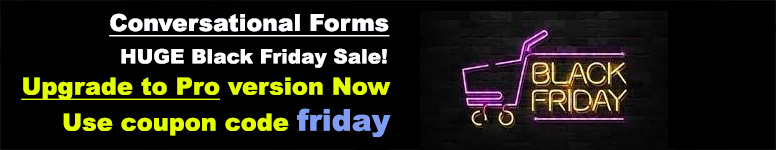
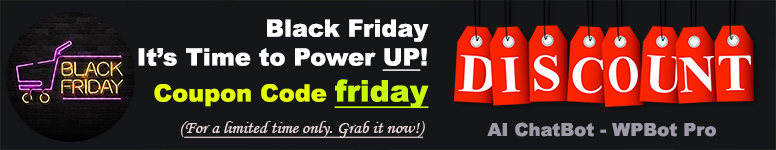
1.3.8

diff --git a/conversational-forms/class-qc-free-plugin-upgrade-notice.php b/conversational-forms/class-qc-free-plugin-upgrade-notice.php
@@ -5,9 +5,9 @@
  * Last Updated On: 05-24-2017
  *******************************************/
 
-if( !class_exists('QcPluginUpgradeToProNotice') )
+if( !class_exists('QcPluginUpgradeToProNoticeconversational') )
 {
-	class QcPluginUpgradeToProNotice {
+	class QcPluginUpgradeToProNoticeconversational {
 		
 		//Public variables, these can be overrides using instance callback
 
@@ -75,13 +75,13 @@ if( !class_exists('QcPluginUpgradeToProNotice') )
 		 * Like Active, Edit etc.
 		 * Ofcourse, in plugin.php page
 		 *******************************/
-		function hook_with_plugin_action_links(){
+		function hook_with_plugin_conversational_action_links(){
 			
 			$this->plugin_slug_plus_file = $this->plugin_slug .'/'. $this->plugin_main_file;
 			
 			if( $this->show_with_action_links && $this->plugin_slug_plus_file != "" )
 			{
-				add_action( 'plugin_action_links_' . $this->plugin_slug_plus_file, array(&$this, 'func_show_upgrade_link_with_action_links'), 95 );
+				add_action( 'plugin_action_links_' . $this->plugin_slug_plus_file, array(&$this, 'func_show_conversational_upgrade_link_with_action_links'), 95 );
 			}
 			else
 			{
@@ -94,7 +94,7 @@ if( !class_exists('QcPluginUpgradeToProNotice') )
 		 * Callback function for the above hook
 		 * used inside hook_with_plugin_action_links
 		 *******************************/
-		function func_show_upgrade_link_with_action_links( $links )
+		function func_show_conversational_upgrade_link_with_action_links( $links )
 		{
 			$links = array_merge( $links, array(
 				'<a title="'.$this->link_text.'" class="'.$this->link_class.'" style="font-weight: bold; color: '.$this->link_color.';" href="' . esc_url( $this->upgrade_link ) . '" target="'.$this->link_target.'">' . __( $this->link_text, 'quantumcloud' ) . '</a>'
@@ -190,7 +190,7 @@ if( !class_exists('QcPluginUpgradeToProNotice') )
  * appropriate worker/callback
  *******************************/
  
-$instance_bot23 = new QcPluginUpgradeToProNotice();
+$instance_bot23 = new QcPluginUpgradeToProNoticeconversational();
 
 if( is_admin() )
 { 
@@ -210,7 +210,7 @@ if( is_admin() )
 
 	if( $instance_bot23->check_if_plugin_page() )
 	{
-		$instance_bot23->hook_with_plugin_action_links();
+		$instance_bot23->hook_with_plugin_conversational_action_links();
 		$instance_bot23->hook_with_plugin_meta_links();
 	}
 	

diff --git a/conversational-forms/qcformbuilder-core.php b/conversational-forms/qcformbuilder-core.php
@@ -1,12 +1,16 @@
 <?php
-/**
- * Plugin Name: Conversational Forms for Lead Generation, Collect information with WPBot
+/*
+ * Plugin Name: ChatBot Conversational Forms for Lead Generation
  * Plugin URI: https://wordpress.org/plugins/conversational-forms
- * Description: An easy to create conversational form builder for the WPBot ChatBot plugin.
- * Author: ChatBot - WPBot
- * Version: 1.3.6
- * Author URI: https://www.wpbot.pro/
+ * Description: ChatBot Conversational Forms for Lead Generation
+ * Author: ChatBot for WordPress - WPBot
+ * @author    QuantumCloud
+ * Version: 1.3.8
  * Donate link: https://www.wpbot.pro/
+ * @author    QuantumCloud
+ * Author URI: https://www.wpbot.pro/
+ * Requires at least: 4.6
+ * Tested up to: 6.7
  * Text Domain: conversational-form-builder
 */
 
@@ -60,7 +64,7 @@ if ( !version_compare(PHP_VERSION, '5.6.0', '>=') ) {
 } else {
 	define('WFBCORE_PATH', plugin_dir_path(__FILE__));
 	define('WFBCORE_URL', plugin_dir_url(__FILE__));
-	define( 'WFBCORE_VER', '1.0.0' );
+	define( 'WFBCORE_VER', '1.3.7' );
 	define('WFBCORE_EXTEND_URL', 'https://api.qcformbuilderforms.com/1.0/');
 	define('WFBCORE_BASENAME', plugin_basename(__FILE__));
 
@@ -227,11 +231,11 @@ if(!function_exists('qcld_condition_check')){
 	}
 }
 
-//add_action( 'admin_notices', 'qcld_condition_promotion_notice');
+add_action( 'admin_notices', 'qcld_condition_promotion_notice');
 function qcld_condition_promotion_notice(){
     $promotion_img =  WFBCORE_URL . "assets/images/blackfriday.jpg";
     ?>
-    <div data-dismiss-type="qcbot-feedback-notice" class="notice is-dismissible qcbot-feedback" style="background: #000">
+    <div data-dismiss-type="qcbot-feedback-notice" class="notice is-dismissible qcbot-feedback" style="background: #151618">
         <div class="">
             
             <div class="qc-review-text" >

diff --git a/conversational-forms/ui/admin.php b/conversational-forms/ui/admin.php
@@ -64,6 +64,18 @@ $modal_new_form = esc_html__('Create Form', 'qcformbuilder-forms').'|{"data-acti
         </ul>
 
 </div>
+<?php
+	$promotion_img =  WFBCORE_URL . "assets/images/blackfriday.jpg";
+    ?>
+    <div data-dismiss-type="qcbot-feedback-notice" class="is-dismissible qcbot-feedback" style="background: #151618">
+        <div class="">
+            
+            <div class="qc-review-text" >
+            <a href="https://www.wpbot.pro/pricing/" target="_blank">
+                <img src="<?php echo esc_url($promotion_img); ?>" alt=""></a>
+            </div>
+        </div>
+    </div>
 <div class="qcld_header_buttons">
 	<button class="button button-primary ajax-trigger wfb-new-form-button"
 			data-request="start_new_form"
@@ -199,6 +211,7 @@ $modal_new_form = esc_html__('Create Form', 'qcformbuilder-forms').'|{"data-acti
 		<h2><?php esc_html_e( 'What is the Command to trigger the specific form intent in Chatbot?', 'qcformbuilder-forms' ); ?></h2>
 		<p><?php esc_html_e( 'During form creation you have to provide the ChatBot Command for the form. You will find the field under', 'qcformbuilder-forms' ); ?> <b><?php esc_html_e( '"Form Settings"', 'qcformbuilder-forms' ); ?></b> <?php esc_html_e( 'tab. If you write the command in chatbot window the conversational form will be started.', 'qcformbuilder-forms' ); ?></p>
 	</div>
+	
 	
 	</div>
 	<div id="qcformbuilder-forms-admin-page-right">
